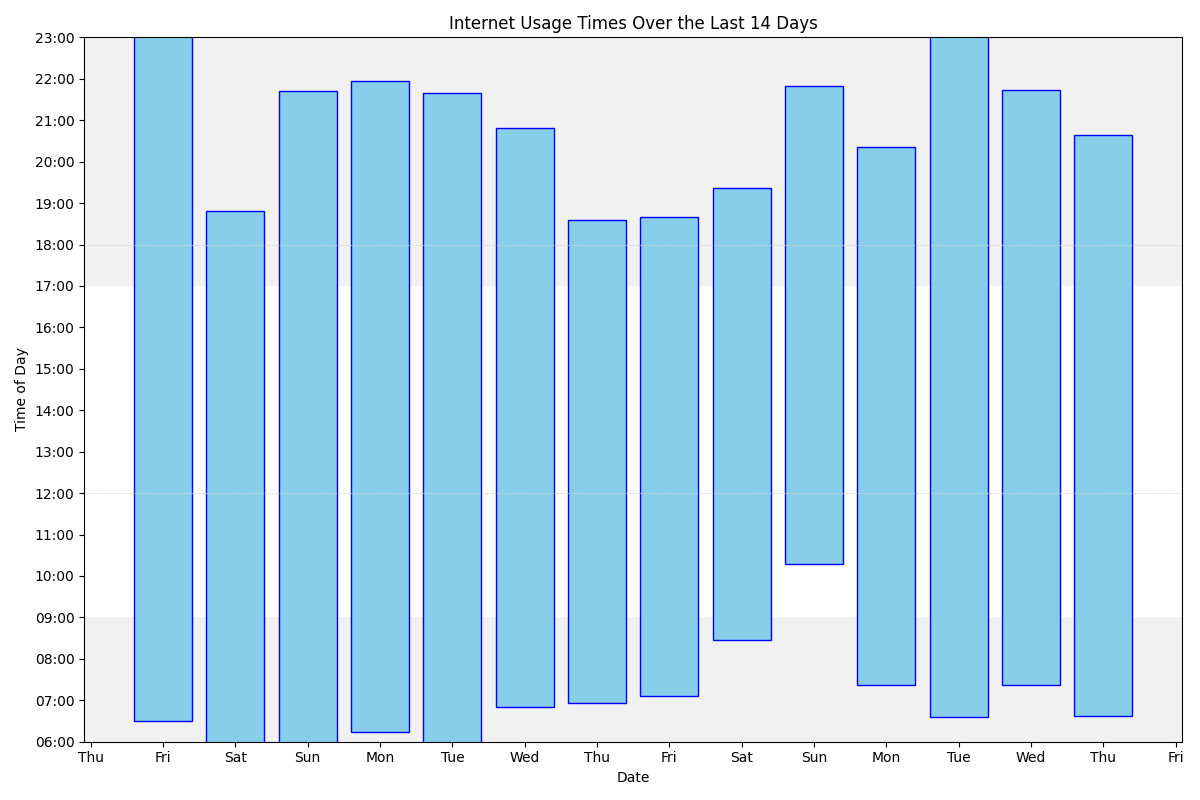
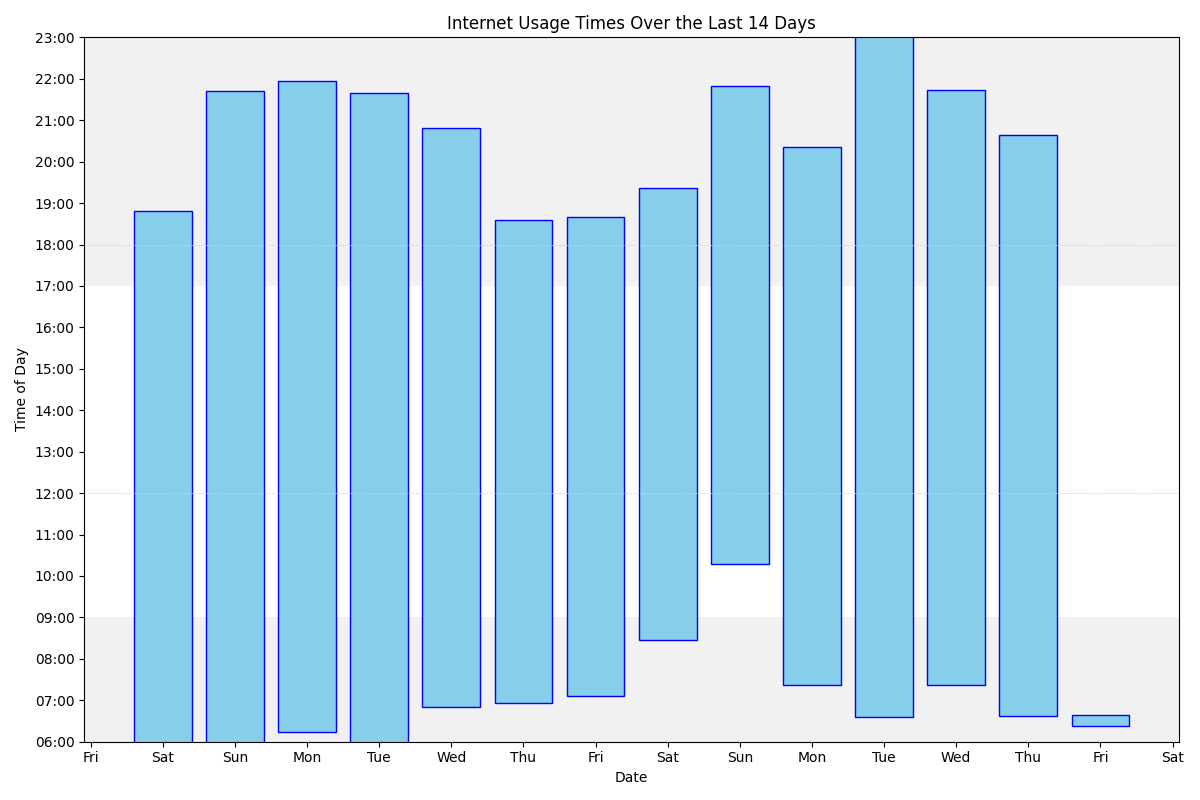
Update

diff --git a/index.md b/index.md
@@ -70,29 +70,29 @@ With number of accesses/minutes in parentheses
 
 <ol><li>www.google.com (3011)</li>
 <li>outlook.office.com (2576)</li>
-<li>mail.google.com (2529)</li>
+<li>mail.google.com (2533)</li>
 <li>docs.google.com (1936)</li>
 <li>outlook.office365.com (1518)</li>
 <li>bsky.app (1459)</li>
 <li>www.reddit.com (1403)</li>
 <li>www.facebook.com (1395)</li>
 <li>duckduckgo.com (1021)</li>
-<li>www.theguardian.com (828)</li>
-<li>chatgpt.com (717)</li>
-<li>www.amazon.co.uk (716)</li>
+<li>www.theguardian.com (829)</li>
+<li>chatgpt.com (718)</li>
+<li>www.amazon.co.uk (717)</li>
 <li>calendar.google.com (496)</li>
 <li>rhul-my.sharepoint.com (472)</li>
 <li>www.linkedin.com (465)</li>
 <li>moodle.royalholloway.ac.uk (461)</li>
 <li>github.com (408)</li>
 <li>login.microsoftonline.com (392)</li>
-<li>gmail.com (359)</li>
+<li>gmail.com (360)</li>
 <li>tvtropes.org (358)</li>
 <li>web.whatsapp.com (313)</li>
 <li>drive.google.com (280)</li>
 <li>feedly.com (279)</li>
 <li>fritz.box (277)</li>
-<li>chat.openai.com (272)</li>
+<li>chat.openai.com (273)</li>
 <li>qbo.intuit.com (233)</li>
 <li>www.coursera.org (208)</li>
 <li>rhul.sharepoint.com (204)</li>
@@ -104,11 +104,50 @@ With number of accesses/minutes in parentheses
 
 <ul></ul>
 
+<H3>Friday, 23/05/25</H3>
+
+<br>
+
+<ul><li> 06:40 chatgpt.com</li>
+<li> 06:40 chat.openai.com</li>
+<li> 06:38 us-east-1.console.aws.amazon.com</li>
+<li> 06:38 signin.aws.amazon.com</li>
+<li> 06:38 us-east-1.console.aws.amazon.com</li>
+<li> 06:38 eu-west-2.signin.aws.amazon.com</li>
+<li> 06:38 eu-west-2.console.aws.amazon.com</li>
+<li class='same'> 06:34 eu-west-2.console.aws.amazon.com</li>
+<li> 06:34 signin.aws.amazon.com</li>
+<li> 06:34 eu-west-2.console.aws.amazon.com</li>
+<li> 06:31 signin.aws.amazon.com</li>
+<li class='same'> 06:30 signin.aws.amazon.com</li>
+<li> 06:30 theopenvoicefactory.org</li>
+<li> 06:29 eu-west-2.signin.aws.amazon.com</li>
+<li> 06:29 eu-west-2.console.aws.amazon.com</li>
+<li> 06:28 raw.githubusercontent.com</li>
+<li> 06:28 theopenvoicefactory.org</li>
+<li> 06:28 eu-west-2.console.aws.amazon.com</li>
+<li> 06:27 mail.google.com</li>
+<li class='same'> 06:25 mail.google.com</li>
+<li> 06:25 adblockplus.org</li>
+<li> 06:25 mail.google.com</li>
+<li class='same'> 06:24 mail.google.com</li>
+<li> 06:24 gmail.com</li>
+<li> 06:24 signin.aws.amazon.com</li>
+<li> 06:24 eu-west-2.signin.aws.amazon.com</li>
+<li> 06:24 eu-west-2.console.aws.amazon.com</li>
+<li> 06:23 www.amazon.co.uk</li>
+</ul>
+
 <H3>Thursday, 22/05/25</H3>
 
 <br>
 
-<ul><li> 20:37 www.theguardian.com</li>
+<ul></ul>
+
+<br>
+
+<ul><li> 20:38 www.theguardian.com</li>
+<li class='same'> 20:37 www.theguardian.com</li>
 </ul>
 
 <br>
